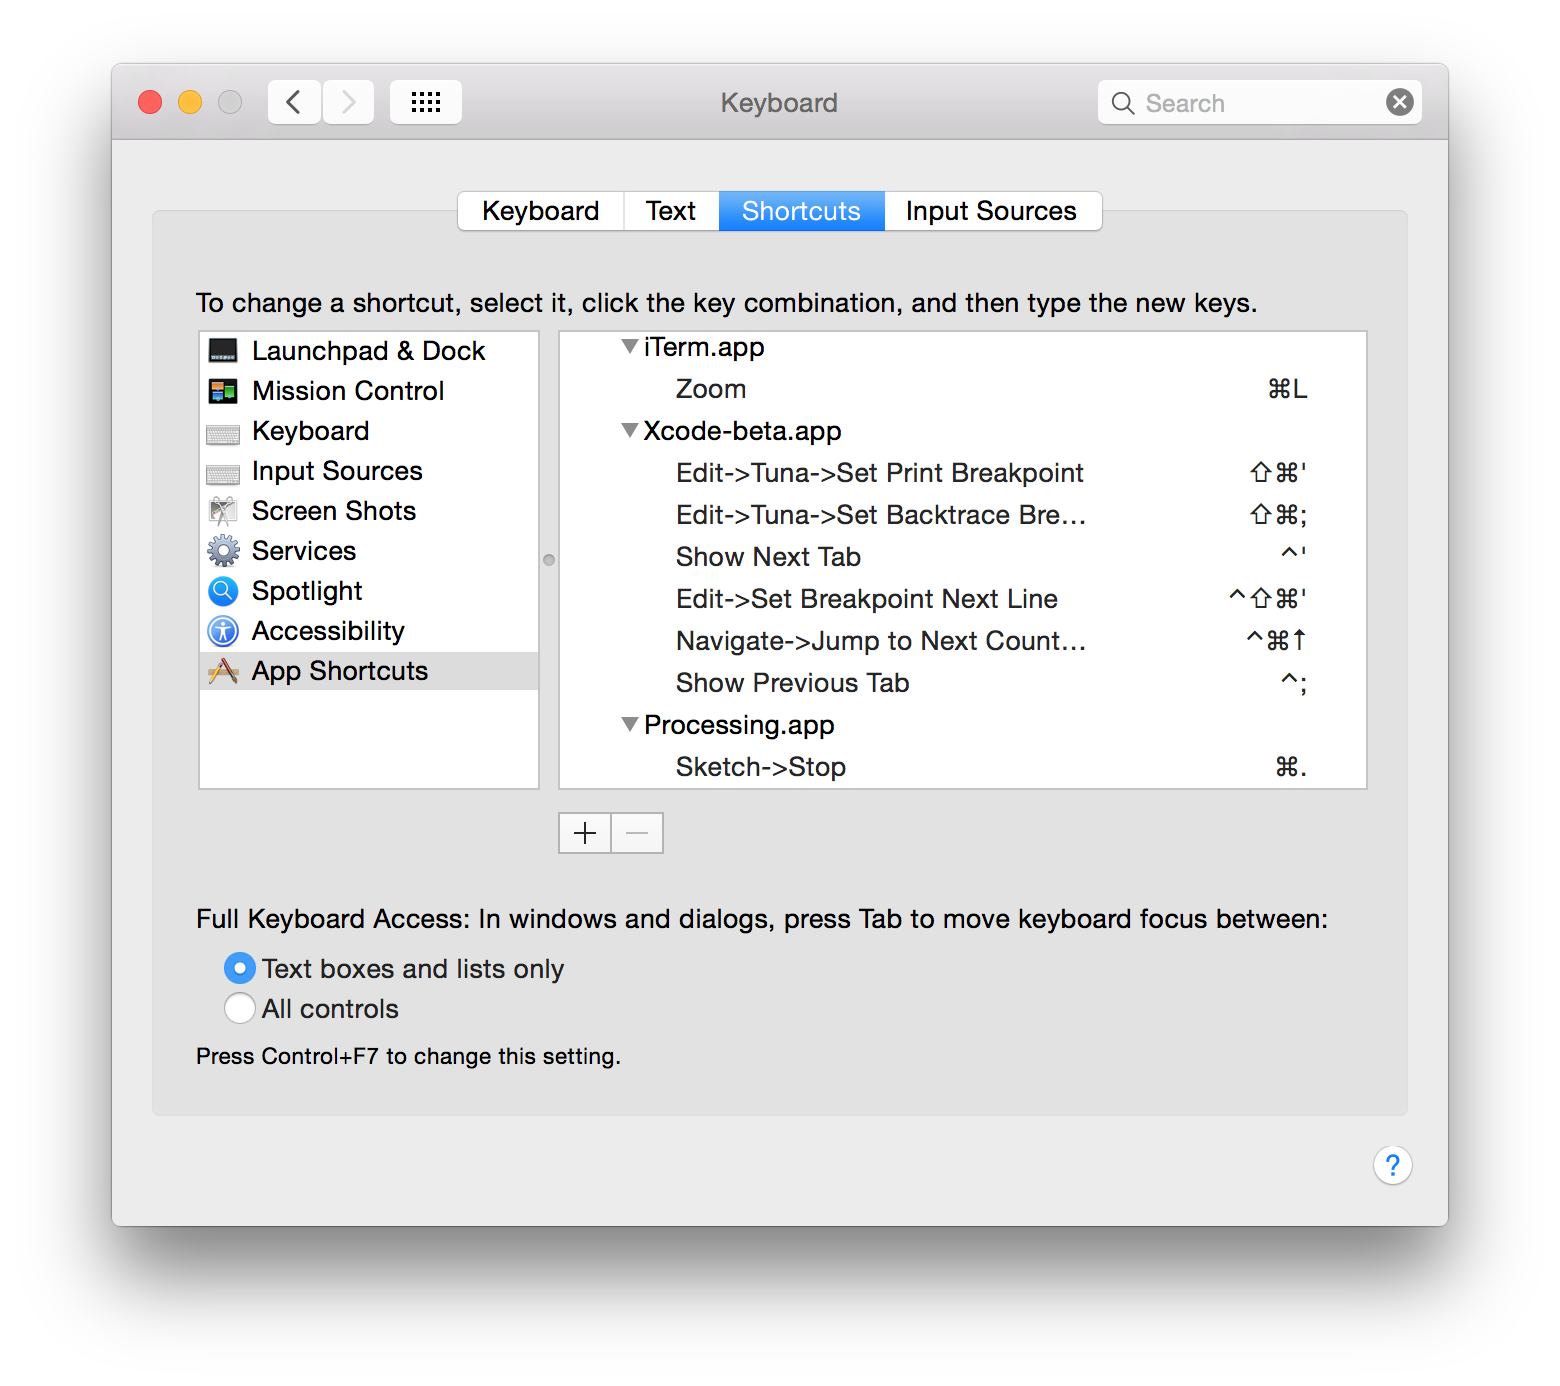
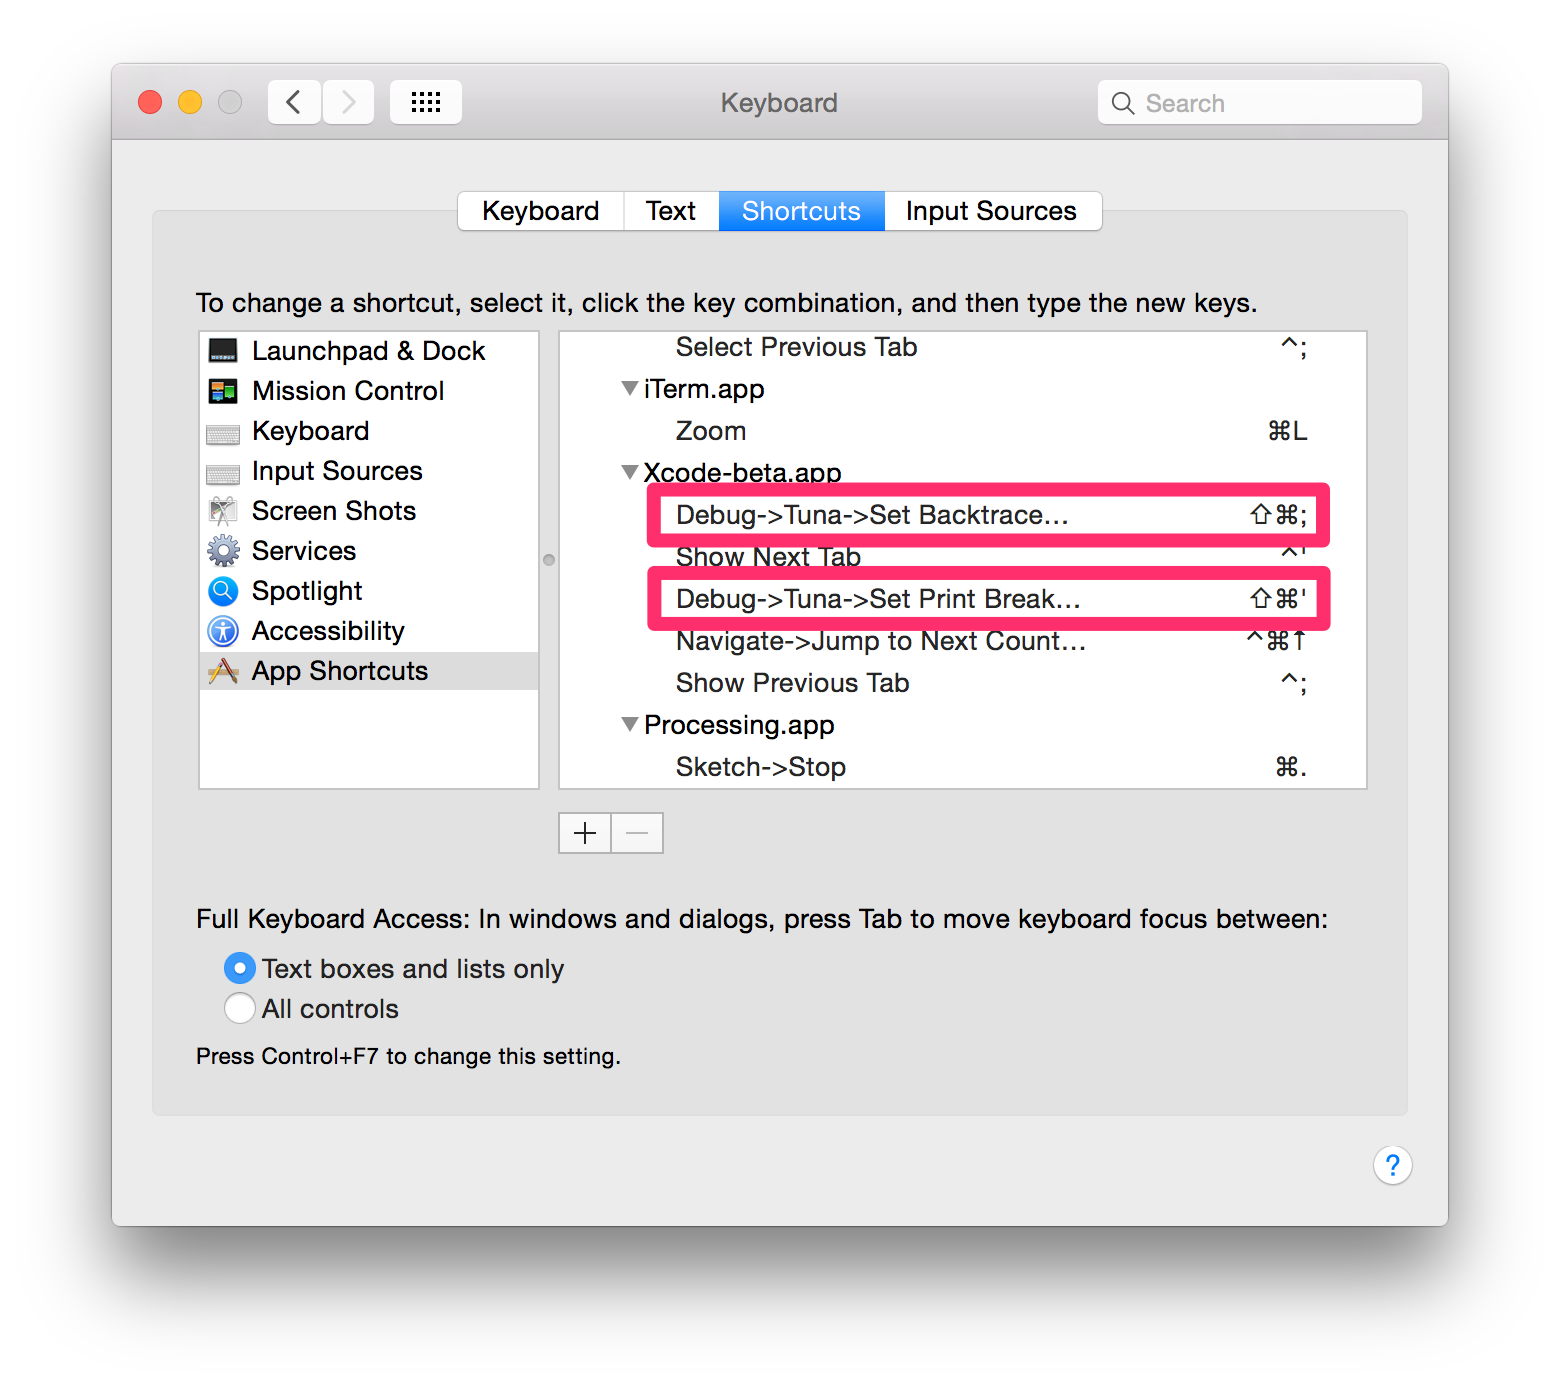
Update README

Changed region(s): [[0.4, 0.2482, 0.8615, 0.4654], [0.8923, 0.062, 0.9231, 0.0931], [0.1231, 0.4033, 0.1538, 0.4343]]

diff --git a/README.md b/README.md
@@ -4,7 +4,22 @@
 
 Xcode plugin that provides easy set breakpoint with action.
 
-![Capture](https://raw.githubusercontent.com/dealforest/Tuna/master/images/capture.png)
+
+## Usage
+
+### Set breakpoint with backtrace action
+1. You will move the cursor to the location where you want to output backtrace.
+2. You press the shortcut key(`Command + Shift + ;`) or the menu(`Debug -> Tuna -> Set Backtrace Breakpoint`)
+
+![Capture](https://raw.githubusercontent.com/dealforest/Tuna/master/images/capture_backtrace.png)
+
+### Set breakpoint with print action
+1. You select the variable that You want to output.
+2. You press the shortcut key(`Command + Shift + '`) or the menu(`Debug -> Tuna -> Set Print Breakpoint`)
+
+in the case of select `cell.textLabel.text`
+
+![Capture](https://raw.githubusercontent.com/dealforest/Tuna/master/images/capture_print.png)
 
 ## Installation
 Download the project and build it, and then relaunch Xcode.
@@ -16,6 +31,8 @@ If you want to uninstall, remove Tuna.xcplugin in the `Plug-ins` directory.
 
 * Xcode 6.0+ 
 
+## Customize shortcuts
+
 ### XVim
 ~/.xvimrc
 ```
@@ -23,8 +40,12 @@ vnoremap <enter> :xcmenucmd Set Print Breakpoint<CR>
 noremap \<enter> :xcmenucmd Set Backtrace Breakpoint<CR>
 ```
 
-### shortcut
+### System Preferences
 ![Capture](https://raw.githubusercontent.com/dealforest/Tuna/master/images/settings.png)
+
+shortcut word
+* 「Debug->Tuna->Set Backtrace Breakpoint」
+* 「Debug->Tuna->Set Print Breakpoint」
 
 ---
 
